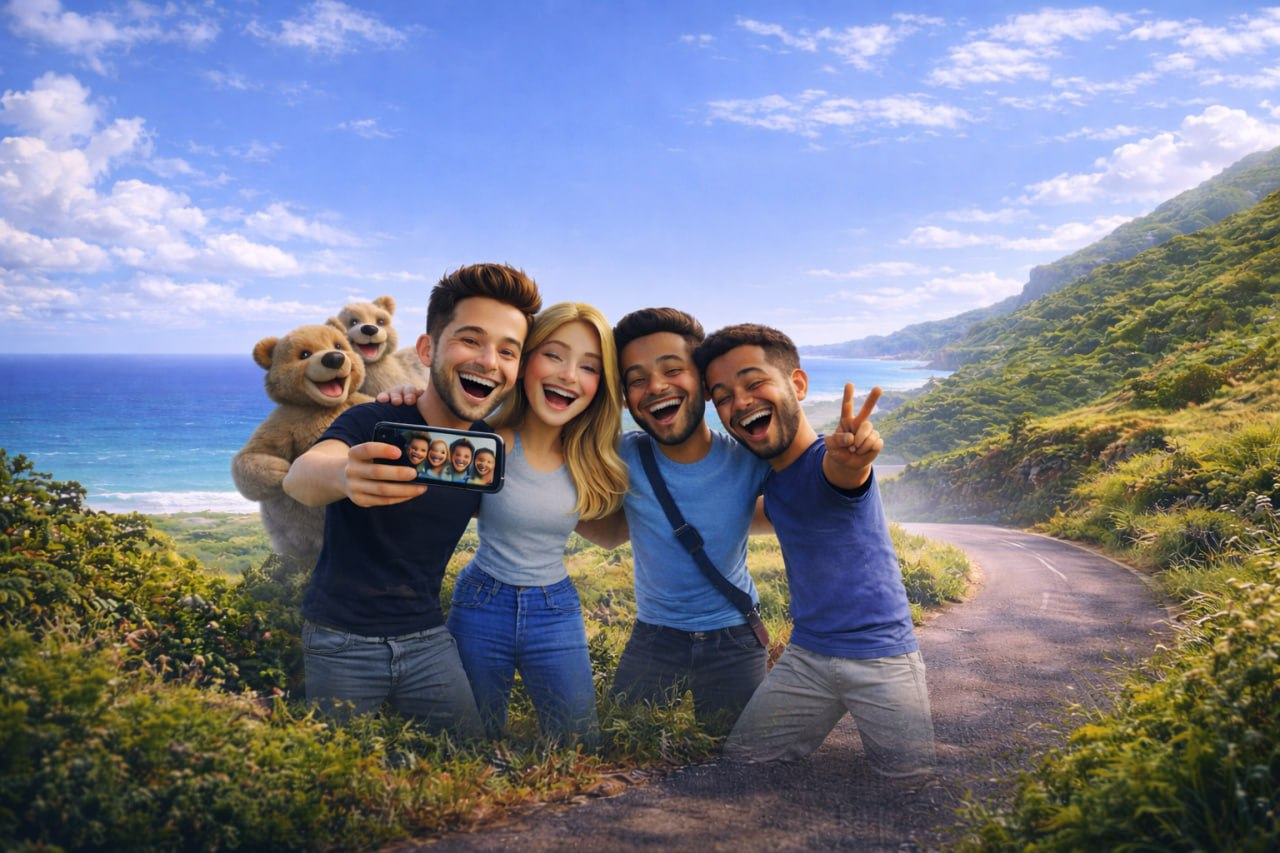
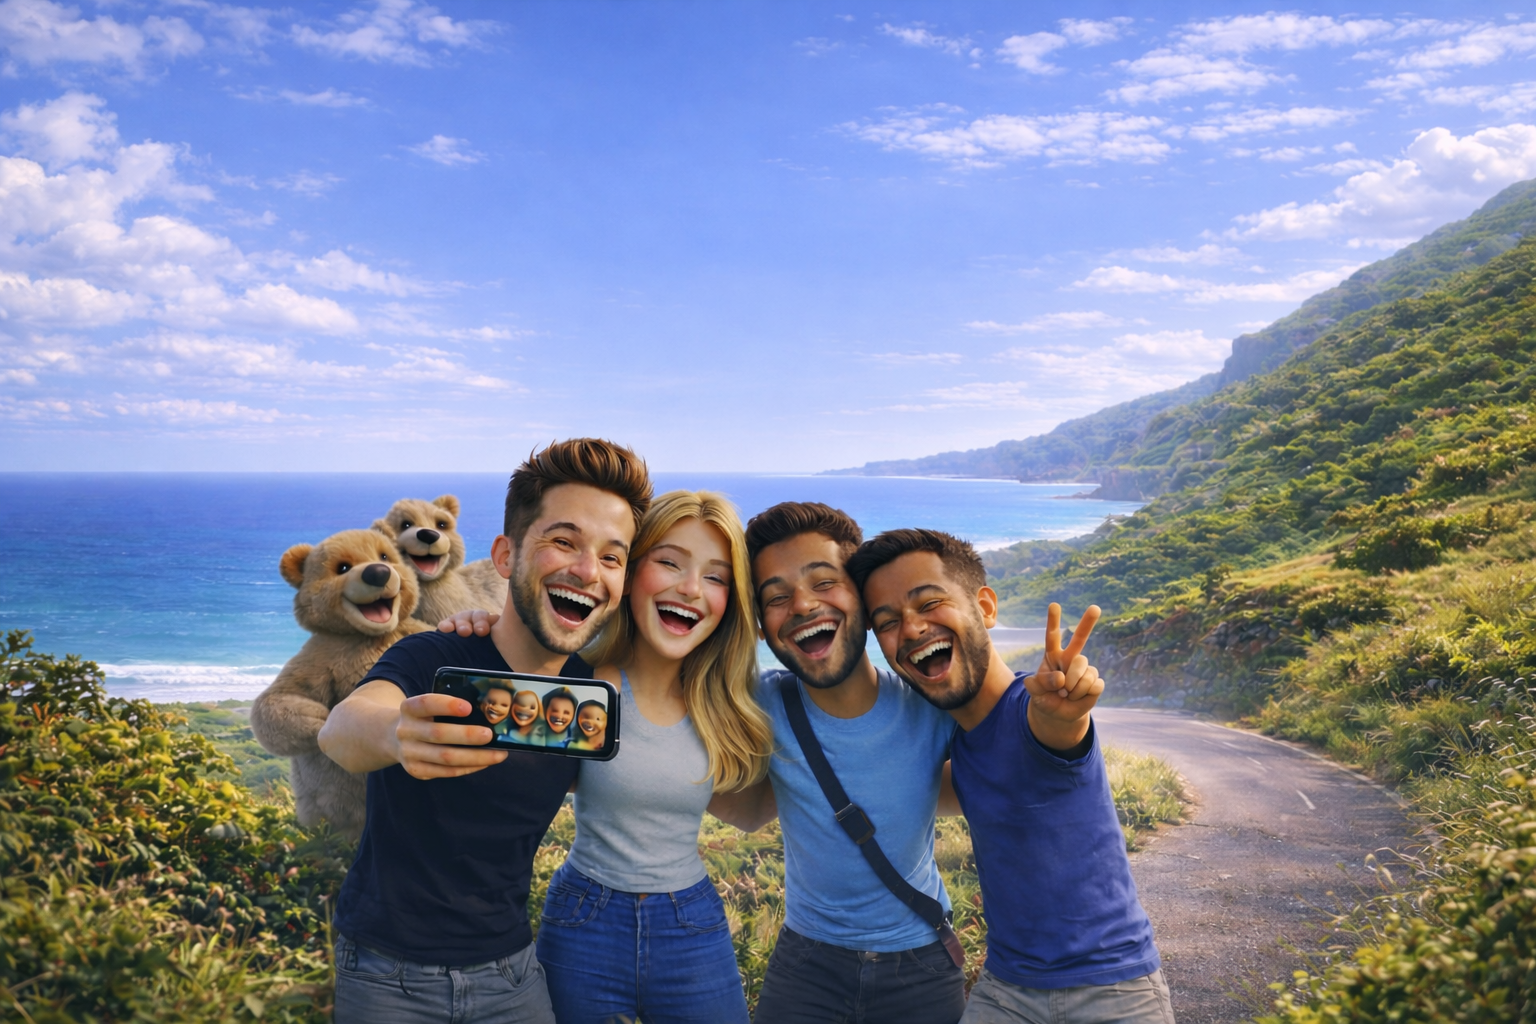
Use new clean background and tighten hero composition to match reference

diff --git a/app/page.tsx b/app/page.tsx
@@ -30,23 +30,23 @@ export default function HomePage() {
       style={{
         backgroundImage: "url('/hero.png')",
         backgroundSize: 'cover',
-        backgroundPosition: 'center 15%',
+        backgroundPosition: 'center 18%',
         backgroundRepeat: 'no-repeat'
       }}
     >
       <div className="absolute inset-0 bg-gradient-to-b from-[rgba(0,0,0,0.25)] to-transparent" style={{ maskImage: 'linear-gradient(to bottom, black 0%, black 45%, transparent 100%)' }} />
 
-      <section className="relative z-10 mx-auto flex min-h-screen w-full max-w-6xl flex-col items-center px-6 text-center" style={{ paddingTop: '24vh' }}>
+      <section className="relative z-10 mx-auto flex min-h-screen w-full max-w-6xl flex-col items-center px-6 text-center" style={{ paddingTop: '22vh' }}>
         <Image
           src="/logo.png"
           alt="MEVO"
           width={520}
           height={180}
           priority
-          className="h-auto w-[clamp(260px,40vw,520px)]"
+          className="h-auto w-[clamp(280px,42vw,500px)]"
         />
 
-        <h1 className="mt-7 max-w-[900px] text-white" style={{ fontWeight: 300, letterSpacing: '-0.02em', fontSize: 'clamp(40px, 4vw, 64px)', lineHeight: 1.1 }}>
+        <h1 className="mt-7 max-w-[920px] text-white" style={{ fontWeight: 300, letterSpacing: '-0.02em', fontSize: 'clamp(44px, 4.2vw, 68px)', lineHeight: 1.08 }}>
           Your friends, your content
         </h1>
 
